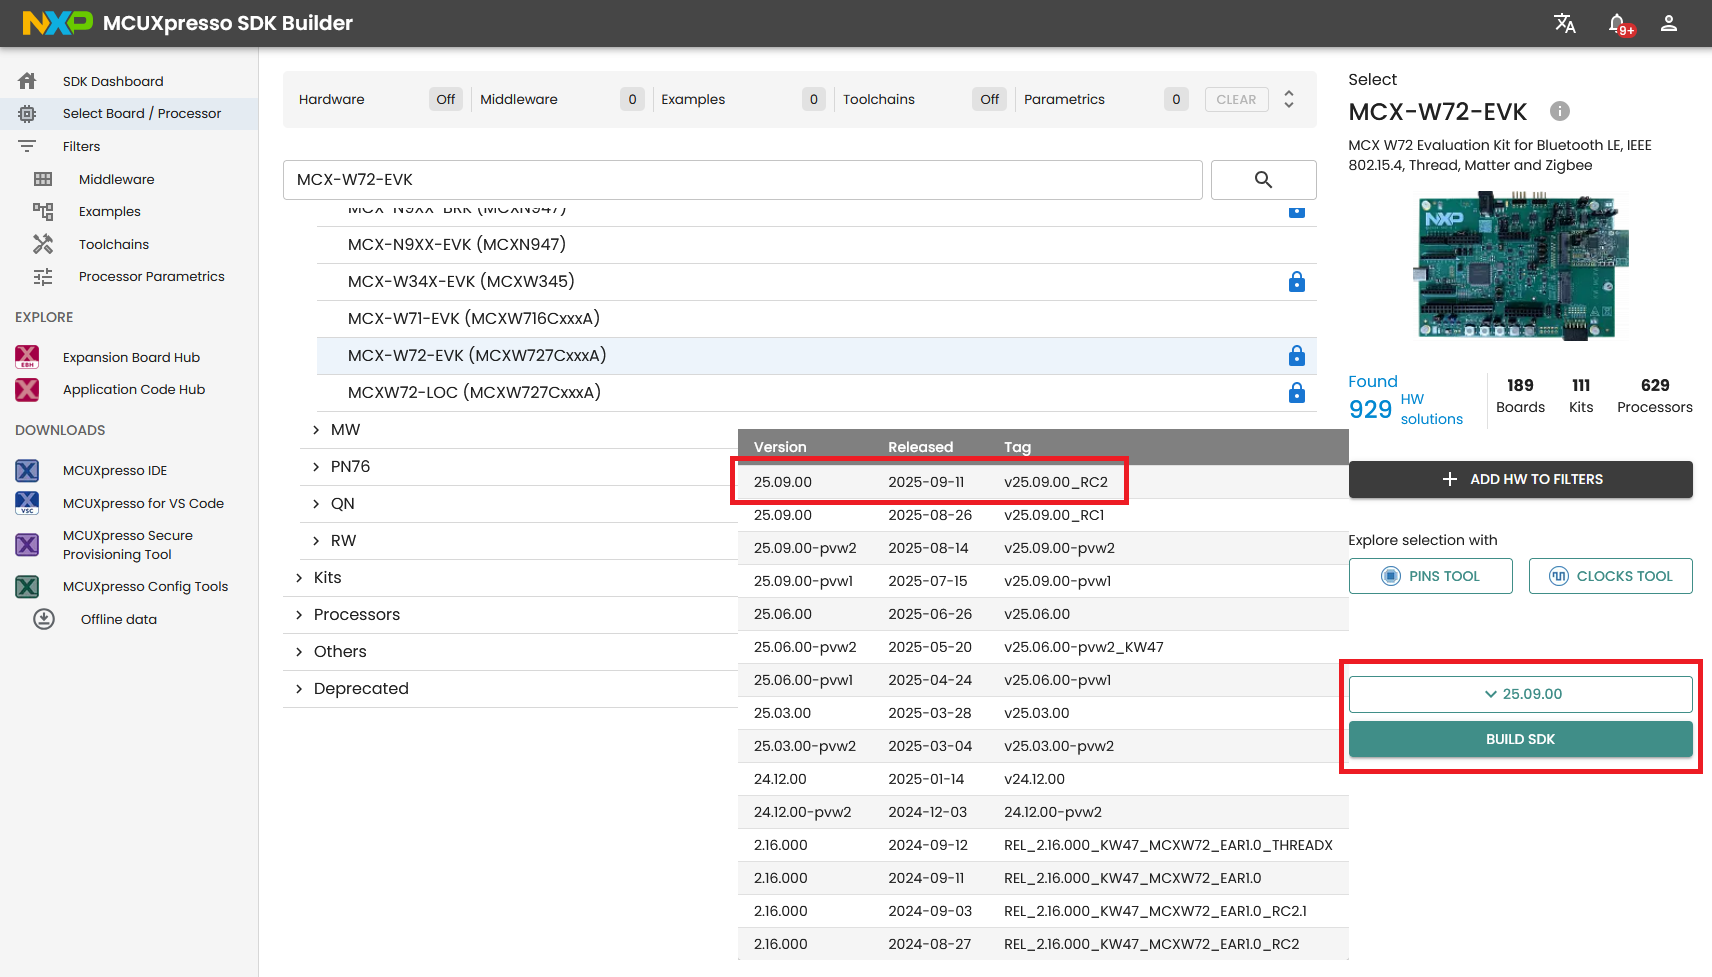
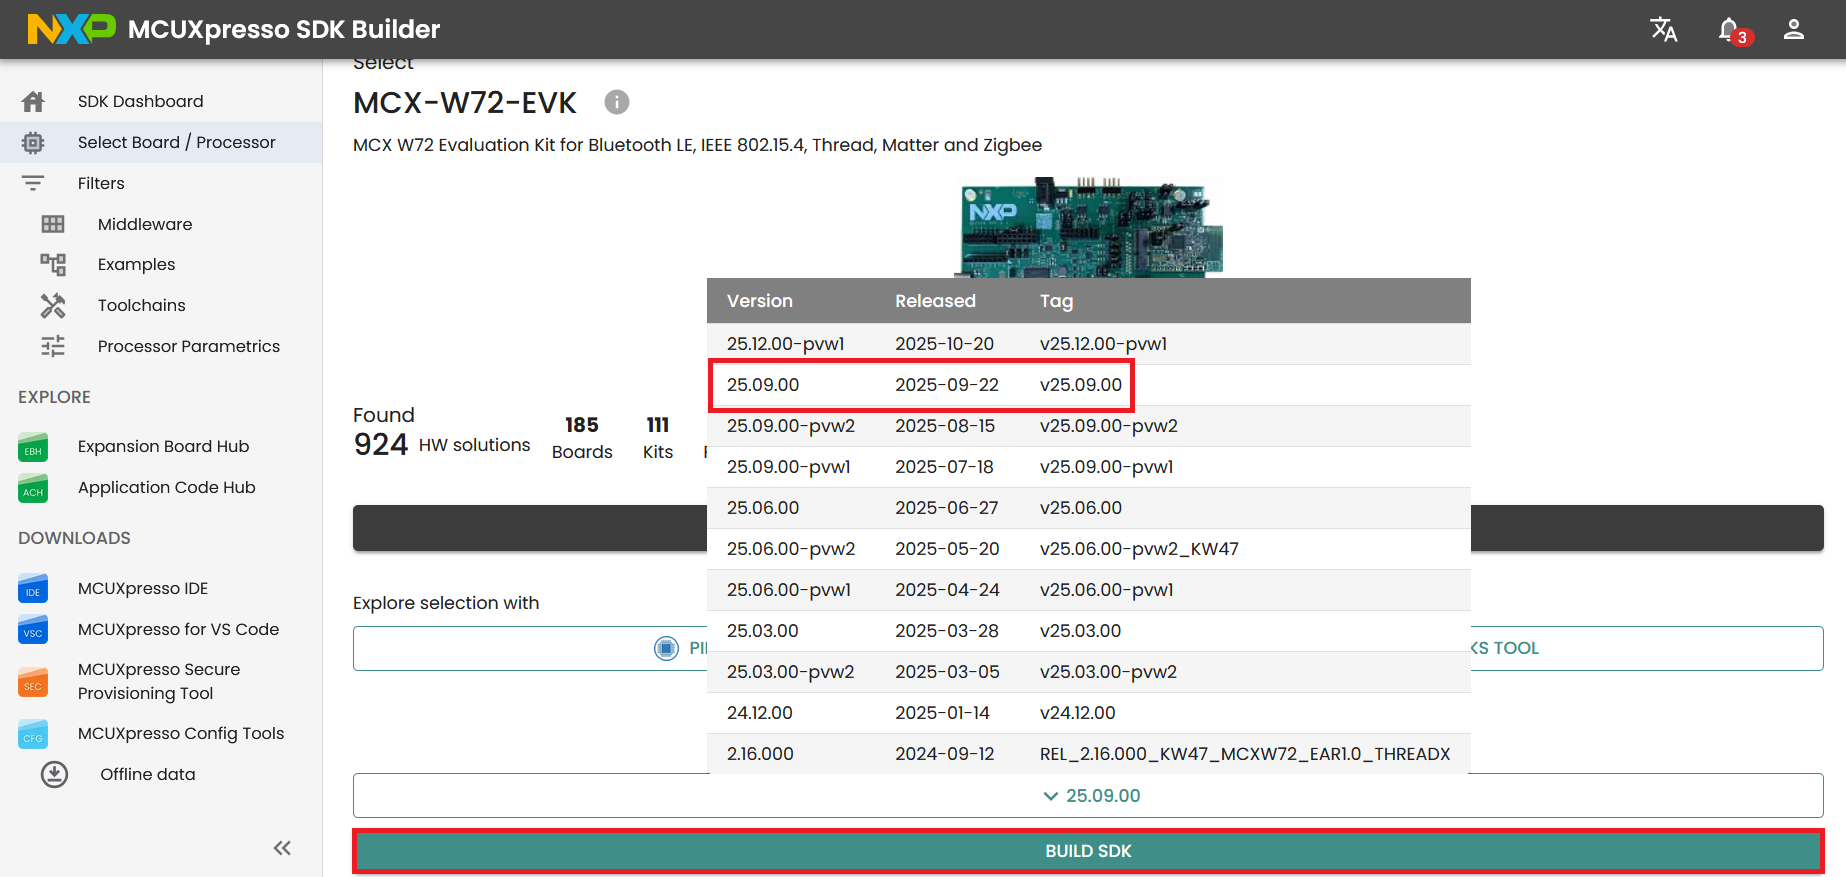
[light-switch-app-ble-cs][readme] Update SDK reference

diff --git a/light-switch-app-ble-cs/README.md b/light-switch-app-ble-cs/README.md
@@ -25,11 +25,11 @@ and test it can be found in the common readme for NXP platforms :
 
 ## Download and patch BLE CS restricted access SDK zip
 
-- Go to [MCUXpresso SDK Builder](https://kex-stage.nxp.com/).
+- Go to [MCUXpresso SDK Builder](https://mcuxpresso.nxp.com).
 - Click `Select Development Board`, type `MCX-W72-EVK` in the input bar and select the board
-- The selection will appear in the right, select the 25.09.00 SDK version with Tag v25.09.00_RC2 and click `BUILD SDK`. [Select board](./main/images/board-select.png)
-- In the new page select `MCUXpresso IDE` in the `Toolchain/IDE` tab, desired `Host OS` and select all SDK packages, then click `BUILD SDK`.
-- Download the zip once ready. [Build SDK](./main/images/sdk-builder.png)
+- The selection will appear below, select the 25.09.00 SDK version with Tag v25.09.00 and click `BUILD SDK`. [Select board](./main/images/board-select.png)
+- In the new page select `MCUXpresso IDE` in the `Toolchain/IDE` tab, desired `Host OS` and select all SDK packages. Scroll down and click `BUILD SDK`. Please ask your NXP representative in case of issue to access/select the `Wireless Localization` component. [Build SDK](./main/images/sdk-builder.png)
+- Download the zip once ready.
 - Unzip and open file `middleware/wireless/bluetooth/application/common/lcl/app_localization_algo.c`. Comment lines 41-51, 68-81, 86-100.
 - Copy the `bluetooth` folder from the SDK ZIP into the sdk-next path `mcuxsdk/middleware/wireless/bluetooth_cs`.
 
